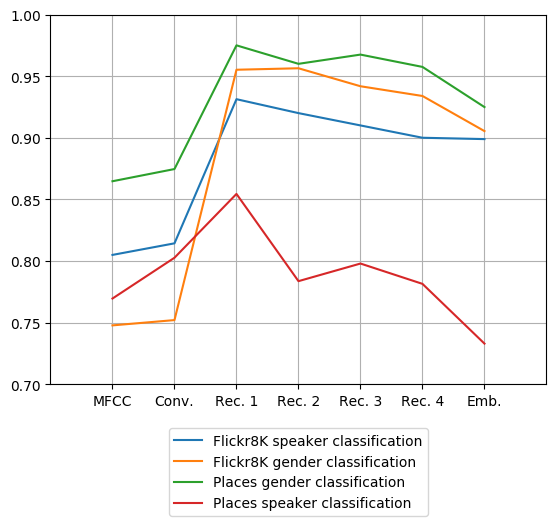
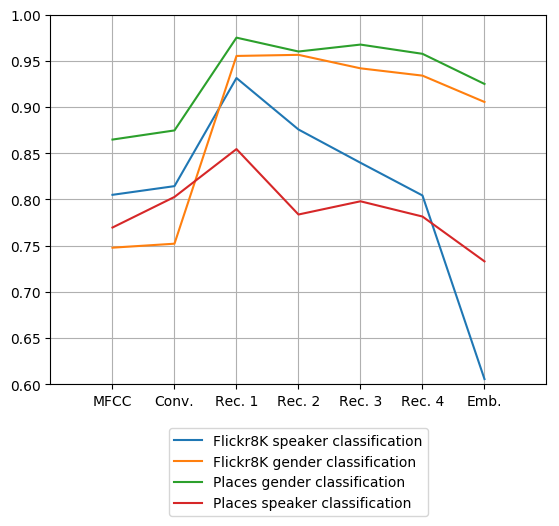
Adjust figure about gender and speaker classification scores

diff --git a/places/explore_places.py b/places/explore_places.py
@@ -56,7 +56,7 @@ def distribution_gender():
     plt.show()
 
 
-def gender_classification_scores():
+def gender_speaker_classification_scores():
     """
     Plot male and female accuracy scores for the Flickr8K and Places dataset
     :return:
@@ -64,7 +64,7 @@ def gender_classification_scores():
 
     # Flickr8K speaker classification F1-scores @todo add real values of Flickr8K speaker identification
     x = [1, 2, 3, 4, 5, 6, 7]
-    y = [0.8049, 0.8143, 0.9313, 0.9200, 0.9100, 0.9000, 0.8989]
+    y = [0.8049, 0.8143, 0.9313, 0.8756, 0.8396, 0.8042, 0.6055]
     my_xticks = ['MFCC', 'Conv.', 'Rec. 1', 'Rec. 2', 'Rec. 3', 'Rec. 4', 'Emb.']
     plt.xticks(x, my_xticks)
     plt.plot(x, y, label='Flickr8K speaker classification')
@@ -81,7 +81,7 @@ def gender_classification_scores():
     y = [0.7695, 0.8026, 0.8544, 0.7836, 0.7979, 0.7814, 0.7329]
     plt.plot(x, y, label='Places speaker classification')
 
-    plt.axis([0, 8, 0.7, 1])
+    plt.axis([0, 8, 0.6, 1])
     fig = plt.figure(1)
     ax = fig.add_subplot(111)
     handles, labels = ax.get_legend_handles_labels()
@@ -122,4 +122,4 @@ def gender_bias_scores():
     plt.savefig('../img/gender-bias.png', bbox_extra_artists=(lgd,), bbox_inches='tight')
 
 
-gender_bias_scores()
+gender_speaker_classification_scores()
